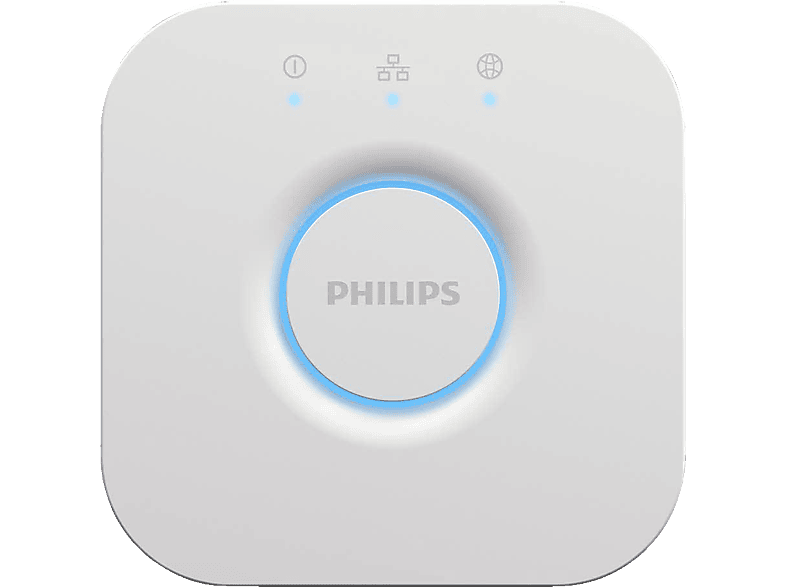
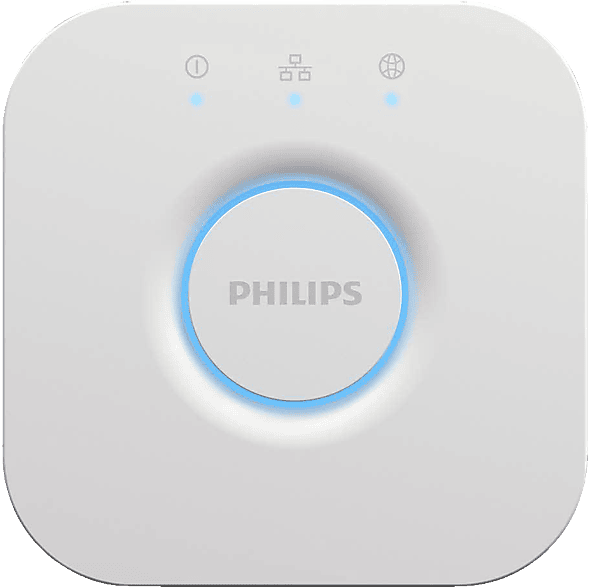
resized images and corrected a tag error

diff --git a/philips-hue-lights/index.html b/philips-hue-lights/index.html
@@ -64,7 +64,7 @@
             alt="Setup Dialogue"
           />
         </a>
-        <br>
+        <br />
         <a
           href="https://raw.githubusercontent.com/Chrizzz-1508/extension-documentation/refs/heads/main/philips-hue-lights/setup2.png"
           target="_blank"
@@ -74,7 +74,7 @@
             alt="Setup Dialogue"
           />
         </a>
-        <br>
+        <br />
         <a
           href="https://raw.githubusercontent.com/Chrizzz-1508/extension-documentation/refs/heads/main/philips-hue-lights/setup3.png"
           target="_blank"
@@ -86,7 +86,8 @@
         </a>
       </li>
       <li>
-        If the pairing process was successful you will see the following popup <br>
+        If the pairing process was successful you will see the following popup
+        <br />
         <a
           href="https://raw.githubusercontent.com/Chrizzz-1508/extension-documentation/refs/heads/main/philips-hue-lights/setup4.png"
           target="_blank"
@@ -157,9 +158,9 @@
                 </pre>
           </li>
         </ul>
-    </li>
-    <li>
-        All the available lights are viewable in the SAMMI Bridge <br>
+      </li>
+      <li>
+        All the available lights are viewable in the SAMMI Bridge <br />
         <a
           href="https://raw.githubusercontent.com/Chrizzz-1508/extension-documentation/refs/heads/main/philips-hue-lights/info.png"
           target="_blank"
@@ -168,16 +169,15 @@
             src="https://raw.githubusercontent.com/Chrizzz-1508/extension-documentation/refs/heads/main/philips-hue-lights/info.png"
             alt="Light info Button"
         /></a>
-    </li>
-        <a
-          href="https://raw.githubusercontent.com/Chrizzz-1508/extension-documentation/refs/heads/main/philips-hue-lights/light-info.png"
-          target="_blank"
-          title="Click for Large Image"
-          ><img
-            src="https://raw.githubusercontent.com/Chrizzz-1508/extension-documentation/refs/heads/main/philips-hue-lights/light-info.png"
-            alt="Light info Button"
-        /></a>
       </li>
+      <a
+        href="https://raw.githubusercontent.com/Chrizzz-1508/extension-documentation/refs/heads/main/philips-hue-lights/light-info.png"
+        target="_blank"
+        title="Click for Large Image"
+        ><img
+          src="https://raw.githubusercontent.com/Chrizzz-1508/extension-documentation/refs/heads/main/philips-hue-lights/light-info.png"
+          alt="Light info Button"
+      /></a>
       <li>
         <strong>Modify Light</strong> - Modifies a specific light (You can use
         the above command to get the exact settings for a color you want)
@@ -214,9 +214,10 @@
             set value
           </li>
         </ul>
-        </li>
-        <li>
-        The <strong>Light</strong> option above has a dropdown box that is prefilled with all available lights that are selectable.<br>
+      </li>
+      <li>
+        The <strong>Light</strong> option above has a dropdown box that is
+        prefilled with all available lights that are selectable.<br />
         <a
           href="https://raw.githubusercontent.com/Chrizzz-1508/extension-documentation/refs/heads/main/philips-hue-lights/info2.png"
           target="_blank"
@@ -226,15 +227,14 @@
             alt="Light modify Button"
         /></a>
       </li>
-        <a
-          href="https://raw.githubusercontent.com/Chrizzz-1508/extension-documentation/refs/heads/main/philips-hue-lights/light-modify.png"
-          target="_blank"
-          title="Click for Large Image"
-          ><img
-            src="https://raw.githubusercontent.com/Chrizzz-1508/extension-documentation/refs/heads/main/philips-hue-lights/light-modify.png"
-            alt="Light modify Button"
-        /></a>
-      </li>
+      <a
+        href="https://raw.githubusercontent.com/Chrizzz-1508/extension-documentation/refs/heads/main/philips-hue-lights/light-modify.png"
+        target="_blank"
+        title="Click for Large Image"
+        ><img
+          src="https://raw.githubusercontent.com/Chrizzz-1508/extension-documentation/refs/heads/main/philips-hue-lights/light-modify.png"
+          alt="Light modify Button"
+      /></a>
     </ul>
   </body>
 
